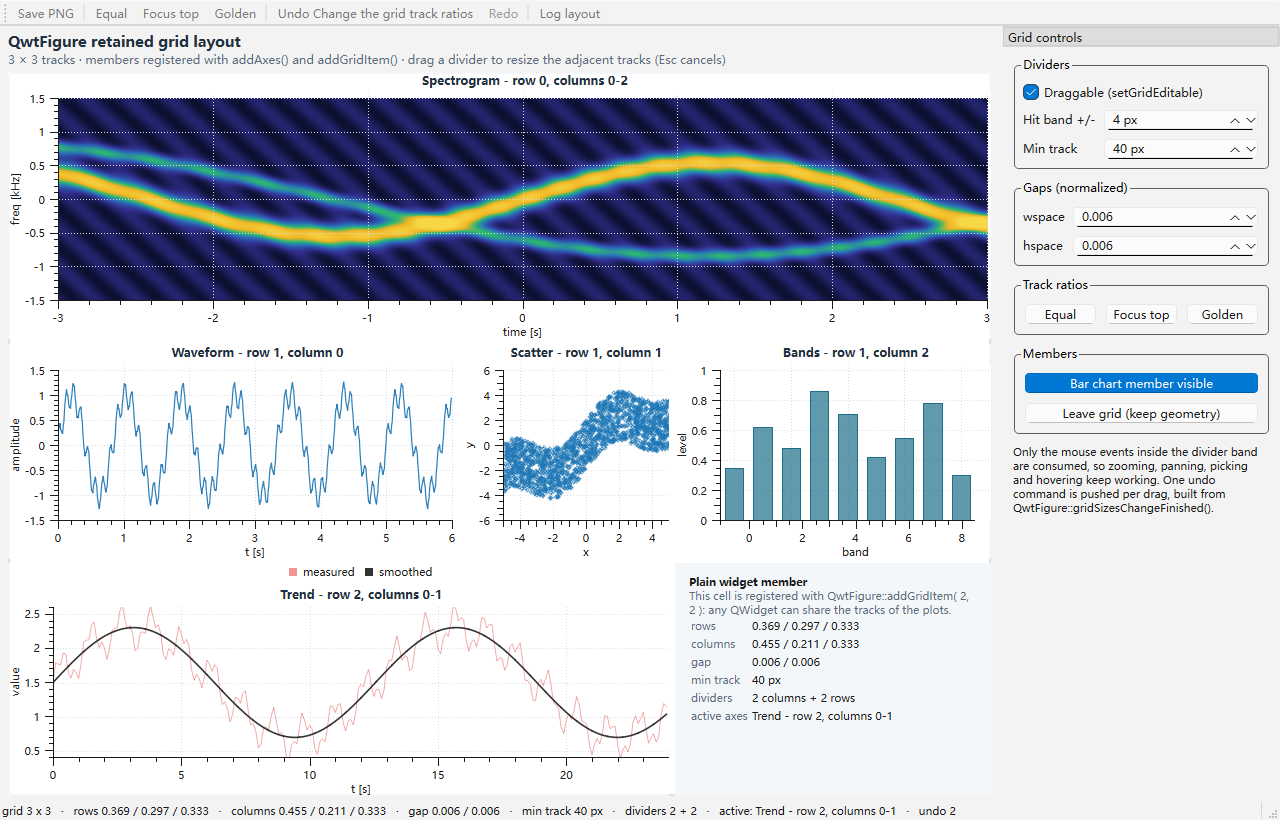
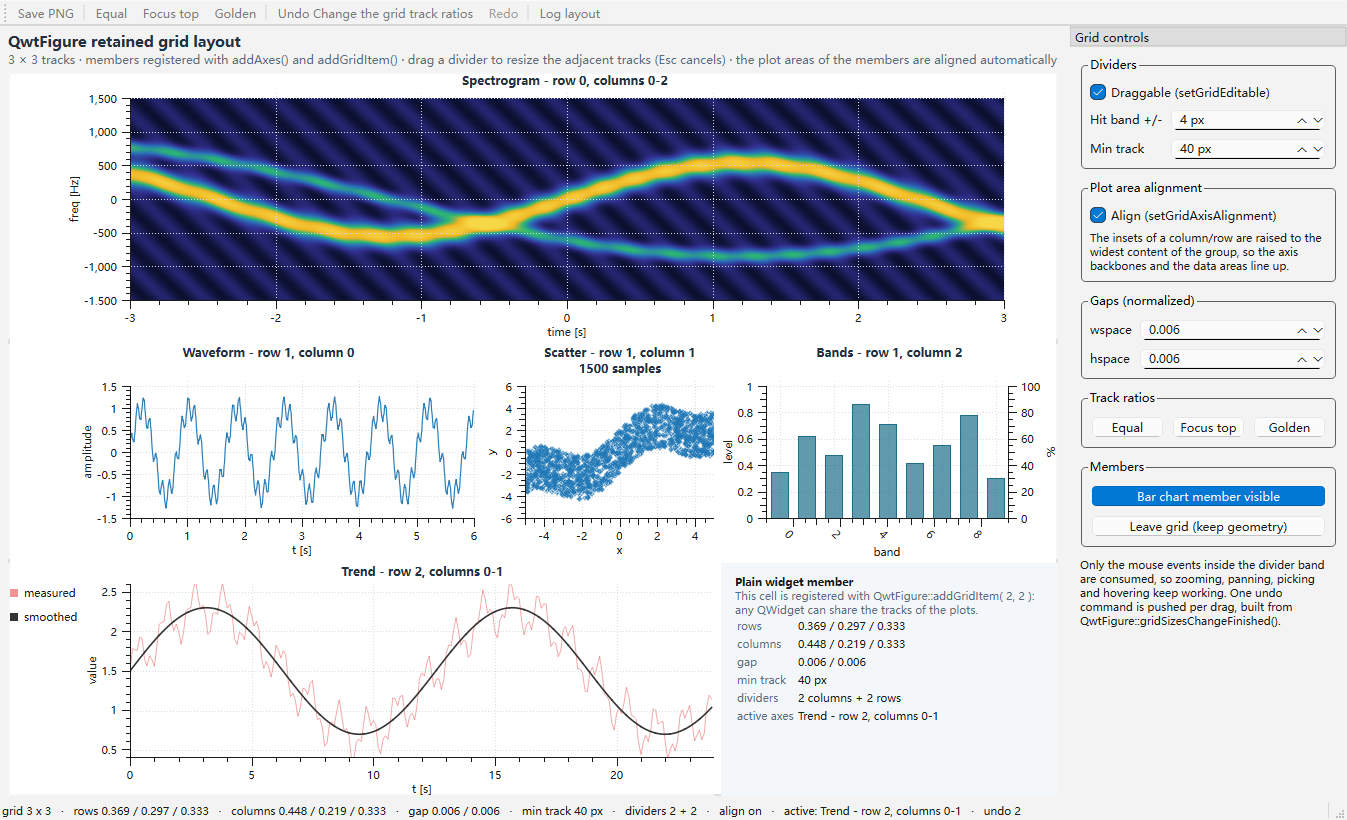
feat(examples): demonstrate the grid plot area alignment
The members of the figureGrid example are aligned automatically now. The data of the demo is chosen so the effect is visible: the spectrogram uses Hz tick labels, the trend plot carries a left legend, the bar chart a percentage axis on the right and the scatter plot a two line title.

The dock gained a 'Plot area alignment' group that switches setGridAxisAlignment() at runtime, and the new 'noalign' screenshot variant captures the natural plot areas for the before/after comparison of the documentation.

diff --git a/examples/2D/figureGrid/GridWindow.cpp b/examples/2D/figureGrid/GridWindow.cpp
@@ -16,6 +16,9 @@
  *   - members can be removed and added back at runtime
  *   - leaving the grid ( QwtFigure::disableGrid() ) keeps the geometry of the
  *     members, re-entering it registers them again on their original cells
+ *   - the plot areas of the members are aligned automatically
+ *     ( QwtFigure::setGridAxisAlignment() ): the plots of a column share the
+ *     left/right canvas edges, the plots of a row share the top/bottom ones
  *   - a real mouse press on a sub plot makes it the current axes
  *     ( QwtFigure::currentAxesChanged() )
  *
@@ -25,8 +28,8 @@
  *                                   examples/update-screenshots.ps1
  *
  * Screenshot variants: default, drag (synthetic divider drags), spacing (wide
- * gaps plus a preset) and reenter (leave and re-enter the grid, then change the
- * ratios).
+ * gaps plus a preset), reenter (leave and re-enter the grid, then change the
+ * ratios) and noalign (alignment switched off, the natural plot areas).
  *****************************************************************************/
 
 #include "GridWindow.h"
@@ -73,6 +76,7 @@
 #include "qwt_plot_barchart.h"
 #include "qwt_plot_curve.h"
 #include "qwt_plot_grid.h"
+#include "qwt_plot_layout.h"
 #include "qwt_plot_spectrogram.h"
 #include "qwt_symbol.h"
 #include "qwt_text.h"
@@ -341,7 +345,8 @@ void GridWindow::createFigure()
     header->setTextFormat(Qt::RichText);
     header->setText(tr("<span style='font-size:11pt;color:%1'><b>QwtFigure retained grid layout</b></span><br/>"
                        "<span style='color:%2'>3 &times; 3 tracks &middot; members registered with addAxes() and "
-                       "addGridItem() &middot; drag a divider to resize the adjacent tracks (Esc cancels)</span>")
+                       "addGridItem() &middot; drag a divider to resize the adjacent tracks (Esc cancels) "
+                       "&middot; the plot areas of the members are aligned automatically</span>")
                          .arg(INK, MUTED));
     centralLayout->addWidget(header);
 
@@ -464,7 +469,7 @@ QwtPlot* GridWindow::createSpectrumPlot()
     QwtMatrixRasterData* rasterData = new QwtMatrixRasterData();
     rasterData->setValueMatrix(makeSpectrogram(rows, columns), columns);
     rasterData->setInterval(Qt::XAxis, QwtInterval(-3.0, 3.0));
-    rasterData->setInterval(Qt::YAxis, QwtInterval(-1.5, 1.5));
+    rasterData->setInterval(Qt::YAxis, QwtInterval(-1500.0, 1500.0));
     rasterData->setInterval(Qt::ZAxis, QwtInterval(0.0, 1.2));
     rasterData->setResampleMode(QwtMatrixRasterData::BilinearInterpolation);
 
@@ -481,9 +486,9 @@ QwtPlot* GridWindow::createSpectrumPlot()
     spectrogram->attach(plot);
 
     plot->setAxisScale(QwtAxis::XBottom, -3.0, 3.0);
-    plot->setAxisScale(QwtAxis::YLeft, -1.5, 1.5);
+    plot->setAxisScale(QwtAxis::YLeft, -1500.0, 1500.0);
     setAxisTitle(plot, QwtAxis::XBottom, tr("time [s]"));
-    setAxisTitle(plot, QwtAxis::YLeft, tr("freq [kHz]"));
+    setAxisTitle(plot, QwtAxis::YLeft, tr("freq [Hz]"));
     return plot;
 }
 
@@ -511,12 +516,15 @@ QwtPlot* GridWindow::createWaveFormPlot()
 
 /**
  * @brief Scatter cloud in the middle row
+ * @details The two line title demonstrates the row alignment of the grid: the
+ *          plot areas of the other members of the row are shifted down until
+ *          their top edges line up with this one.
  * @return The plot, not yet registered in the grid
  */
 QwtPlot* GridWindow::createScatterPlot()
 {
     QwtPlot* plot = new QwtPlot();
-    setupPlot(plot, tr("Scatter - row 1, column 1"));
+    setupPlot(plot, tr("Scatter - row 1, column 1\n1500 samples"));
 
     QwtPlotCurve* dots = new QwtPlotCurve(tr("samples"));
     dots->setSamples(makeScatter(1500));
@@ -535,6 +543,9 @@ QwtPlot* GridWindow::createScatterPlot()
 
 /**
  * @brief Bar chart in the middle row
+ * @details The additional right axis and the rotated category labels demonstrate
+ *          the right edge and bottom edge alignment of the grid: the wide bands
+ *          of this member are reserved in the other members of the column/row.
  * @return The plot, not yet registered in the grid
  */
 QwtPlot* GridWindow::createBandPlot()
@@ -558,11 +569,26 @@ QwtPlot* GridWindow::createBandPlot()
     plot->setAxisScale(QwtAxis::YLeft, 0.0, 1.0);
     setAxisTitle(plot, QwtAxis::XBottom, tr("band"));
     setAxisTitle(plot, QwtAxis::YLeft, tr("level"));
+
+    // Rotated category labels need a taller bottom band than the neighbours of
+    // the row; the row alignment raises their plot areas to the same inset.
+    plot->setAxisLabelRotation(QwtAxis::XBottom, 45.0);
+
+    // A second, independent scale on the right: its band is wide because of the
+    // percentage labels, so it drives the right edge alignment of the column.
+    plot->enableAxis(QwtAxis::YRight, true);
+    plot->setAxisScale(QwtAxis::YRight, 0.0, 100.0);
+    plot->setAxisFont(QwtAxis::YRight, pointFont(plot, 8.0));
+    setAxisTitle(plot, QwtAxis::YRight, tr("%"));
     return plot;
 }
 
 /**
  * @brief Two curves and a legend, spanning two columns of the last row
+ * @details The legend sits in the left band of the plot, so it needs a much
+ *          wider left inset than the plots above. The column alignment reserves
+ *          the same band for all of them, which keeps the left edges lined up
+ *          even for members that carry a legend.
  * @return The plot, not yet registered in the grid
  */
 QwtPlot* GridWindow::createTrendPlot()
@@ -584,7 +610,7 @@ QwtPlot* GridWindow::createTrendPlot()
 
     QwtLegend* legend = new QwtLegend();
     legend->setFont(pointFont(plot, 8.0));
-    plot->insertLegend(legend, QwtPlot::TopLegend);
+    plot->insertLegend(legend, QwtPlot::LeftLegend);
 
     plot->setAxisScale(QwtAxis::XBottom, 0.0, 24.0);
     plot->setAxisScale(QwtAxis::YLeft, 0.4, 2.6);
@@ -708,6 +734,25 @@ void GridWindow::createControlPanel()
 
     layout->addWidget(interaction);
 
+    // Plot area alignment
+    QGroupBox* alignment = new QGroupBox(tr("Plot area alignment"), panel);
+    QVBoxLayout* alignmentLayout = new QVBoxLayout(alignment);
+
+    m_alignBox = new QCheckBox(tr("Align (setGridAxisAlignment)"), alignment);
+    m_alignBox->setChecked(true);
+    m_alignBox->setToolTip(tr("The members of a grid column share the left/right canvas edges, "
+                              "the members of a row share the top/bottom ones"));
+    alignmentLayout->addWidget(m_alignBox);
+
+    QLabel* alignmentHint = new QLabel(alignment);
+    alignmentHint->setWordWrap(true);
+    alignmentHint->setFont(pointFont(alignmentHint, 8.0));
+    alignmentHint->setText(tr("The insets of a column/row are raised to the widest content of the group, "
+                              "so the axis backbones and the data areas line up."));
+    alignmentLayout->addWidget(alignmentHint);
+
+    layout->addWidget(alignment);
+
     // Gaps between the cells
     QGroupBox* gaps = new QGroupBox(tr("Gaps (normalized)"), panel);
     QFormLayout* gapsForm = new QFormLayout(gaps);
@@ -811,6 +856,26 @@ void GridWindow::createControlPanel()
     connect(m_leaveGridButton, &QPushButton::clicked, this, [ this ]() {
         setGridActive(!m_figure->isGridEnabled());
     });
+
+    connect(m_alignBox, &QCheckBox::toggled, this, [ this ](bool on) {
+        setAxisAlignment(on);
+    });
+}
+
+/**
+ * @brief Enable or disable the automatic plot area alignment of the grid
+ * @param on True to align the plot areas of the members
+ */
+void GridWindow::setAxisAlignment(bool on)
+{
+    if (m_alignBox && m_alignBox->isChecked() != on) {
+        m_alignBox->setChecked(on);
+    }
+    if (m_figure) {
+        m_figure->setGridAxisAlignment(on);
+    }
+    updateStatus();
+    updateNotesPanel();
 }
 
 /**
@@ -937,6 +1002,7 @@ void GridWindow::setGridActive(bool active)
 
         registerMembers();
 
+        m_figure->setGridAxisAlignment(m_alignBox ? m_alignBox->isChecked() : true);
         m_figure->setGridEditable(m_editableBox && m_editableBox->isChecked());
         m_splitter = m_figure->findChild< QwtFigureGridSplitter* >();
         if (m_splitter && m_hitWidthBox) {
@@ -968,6 +1034,9 @@ void GridWindow::setGridActive(bool active)
     }
     if (m_hspaceBox) {
         m_hspaceBox->setEnabled(gridEnabled);
+    }
+    if (m_alignBox) {
+        m_alignBox->setEnabled(gridEnabled);
     }
     if (m_activeCellsButton) {
         m_activeCellsButton->setEnabled(gridEnabled);
@@ -1049,6 +1118,7 @@ void GridWindow::updateStatus()
                  .arg(QString::number(m_grid->wspace(), 'f', 3), QString::number(m_grid->hspace(), 'f', 3));
     parts << tr("min track %1 px").arg(m_grid->minimumTrackPixels());
     parts << tr("dividers %1 + %2").arg(columnDividers).arg(rowDividers);
+    parts << tr("align %1").arg(m_figure->isGridAxisAlignment() ? tr("on") : tr("off"));
     parts << tr("active: %1").arg(active);
     parts << tr("undo %1").arg(m_undoStack ? m_undoStack->count() : 0);
 
@@ -1141,6 +1211,14 @@ void GridWindow::logLayout()
         qDebug() << "  member" << (qobject_cast< QwtPlot* >(member) ? "plot" : "widget") << row << column << rowSpan
                  << columnSpan << "normRect" << m_grid->normRectFor(row, column, rowSpan, columnSpan) << "geometry"
                  << member->geometry();
+
+        QwtPlot* plot = qobject_cast< QwtPlot* >(member);
+        QwtPlotLayout* plotLayout = plot ? plot->plotLayout() : nullptr;
+        if (plotLayout) {
+            qDebug() << "    canvas" << plotLayout->canvasRect() << "insets L/R/T/B"
+                     << plotLayout->minCanvasInset(QwtAxis::YLeft) << plotLayout->minCanvasInset(QwtAxis::YRight)
+                     << plotLayout->minCanvasInset(QwtAxis::XTop) << plotLayout->minCanvasInset(QwtAxis::XBottom);
+        }
     }
 }
 

diff --git a/examples/2D/figureGrid/GridWindow.h b/examples/2D/figureGrid/GridWindow.h
@@ -34,6 +34,9 @@ class QwtPlot;
  *  - one undo command per drag, built from QwtFigure::gridSizesChangeFinished()
  *  - members added/removed at runtime ( QwtFigureGrid::addItem()/removeItem() through
  *    QwtFigure::addAxes()/addGridItem()/removeWidget() )
+ *  - the automatic plot area alignment of the grid members
+ *    ( QwtFigure::setGridAxisAlignment() ): the plots of a column share the
+ *    left and right canvas edges, the plots of a row share the top and bottom ones
  *  - leaving the grid while the members keep their geometry ( QwtFigure::disableGrid() )
  *  - the current axes tracked from real mouse presses ( QwtFigure::currentAxesChanged() )
  *
@@ -60,6 +63,9 @@ public:
     // Leave the retained grid (the members keep their geometry) and re-enter it
     void leaveGrid();
     void reenterGrid();
+
+    // Enable/disable the automatic plot area alignment and sync the control panel
+    void setAxisAlignment(bool on);
 
 private:
     // Cell of one member of the retained grid
@@ -124,6 +130,7 @@ private:
     QPointer< QLabel > m_statusLabel;
     QPointer< QLabel > m_notesLabel;
     QCheckBox* m_editableBox { nullptr };
+    QCheckBox* m_alignBox { nullptr };
     QSpinBox* m_hitWidthBox { nullptr };
     QSpinBox* m_minTrackBox { nullptr };
     QDoubleSpinBox* m_wspaceBox { nullptr };

diff --git a/examples/2D/figureGrid/main.cpp b/examples/2D/figureGrid/main.cpp
@@ -41,6 +41,12 @@ int main(int argc, char* argv[])
         window.applyPreset(QStringLiteral("golden"));
         window.dragDivider(0, -60);
     });
+    QwtExampleScreenshot::addVariant(QStringLiteral("noalign"), [ &window ]() {
+        // Switches the automatic plot area alignment off: every plot keeps the
+        // insets its own labels/titles ask for, so the axis backbones no longer
+        // line up with the neighbours of the same column/row
+        window.setAxisAlignment(false);
+    });
 
     window.show();
 
